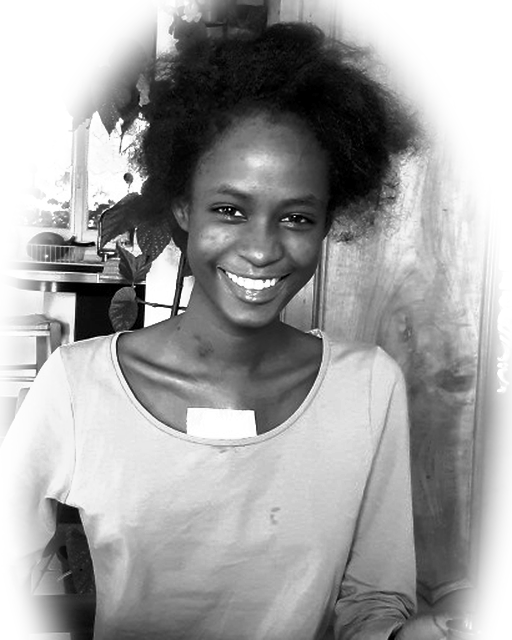
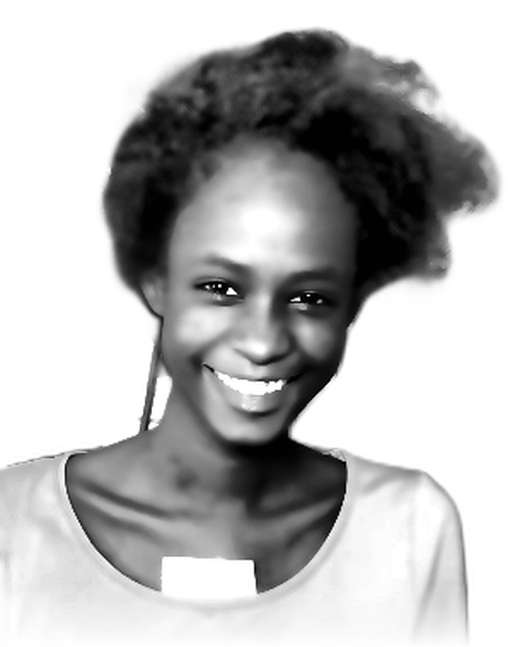
Cockpit : portraits lisibles (détourage, contraste, lettres pleines), mention des vidéos de Violette
- Portraits détourés et contrastés, noms en graisse forte colorés par l'image, léger fond tonal pour lire le visage de loin
- « Pendant les courses, ton nom peut apparaître dans les vidéos de Violette » : accueil, choix mât/cockpit, contreparties, fiche après le don

Claude-Session: https://claude.ai/code/session_01Njsx87tTTW4BVFtWPGQtJ3

diff --git a/app.js b/app.js
@@ -532,7 +532,7 @@ const ckHeadPx = () => ckCanvas.height * CK.head / CK.h, ckRowPx = () => (ckCanv
    corps, graisse et couleur variant avec l'image ; au centre, les emplacements réservés aux logos (Mécénat Chirurgie Cardiaque, partenaires) */
 let ckDeco = 'portraits', typoHits = [], typoHome = new Map();
 const ckTypoOn = () => ckDeco === 'portraits' && !(pickMode && DS.zone === 'ck');
-const TYPO_KIDS = [{ num: 553, pal: ['#2e0207', '#c20f1b', '#f7c9cc'], bg: '#e9e1de' }, { num: 556, pal: ['#060f24', '#1d4b9e', '#bcd0f2'], bg: '#e1e5ec' }];
+const TYPO_KIDS = [{ num: 556, pal: ['#1c0003', '#c10f1c', '#fbe3e4'], bg: '#f1ece9' }, { num: 557, pal: ['#03091a', '#1b4aa0', '#e2eaf8'], bg: '#ebeef3' }];
 TYPO_KIDS.forEach(k => { k.img = new Image(); k.img.onload = () => { try { drawCk(); } catch (e) {} }; k.img.src = `enfants/typo/${k.num}.png`; });
 Promise.all([300, 500, 800].map(w => new FontFace('Barlow Condensed', `url(fonts/barlow-condensed-latin-${w}-normal.woff2)`, { weight: String(w) }).load().then(f => document.fonts.add(f)).catch(() => {})))
   .then(() => { try { drawCk(); } catch (e) {} });
@@ -545,8 +545,8 @@ function drawCkHead(ctx, W, hp) {
 }
 function typoPortrait(ctx, kid, X, Y, w, h, names, start, k) {
   w = Math.floor(w); h = Math.floor(h);
-  const img = kid.img, ok = img && img.complete && img.naturalWidth, fs = Math.max(13.5 * k, 10), lh = fs * 1.02, q = 4;
-  let fit = null; if (ok) { const sc = Math.min(w * 1.08 / img.naturalWidth, h * 0.97 / img.naturalHeight); fit = { w: img.naturalWidth * sc, h: img.naturalHeight * sc }; fit.x = (w - fit.w) / 2; fit.y = h - fit.h; }
+  const img = kid.img, ok = img && img.complete && img.naturalWidth, fs = Math.max(11 * k, 9), lh = fs * 0.96, q = 3;
+  let fit = null; if (ok) { const sc = Math.min(w * 1.0 / img.naturalWidth, h * 0.99 / img.naturalHeight); fit = { w: img.naturalWidth * sc, h: img.naturalHeight * sc }; fit.x = (w - fit.w) / 2; fit.y = h - fit.h; }
   // l'image, réduite, sert à lire la densité sous chaque nom
   const S = document.createElement('canvas'); S.width = Math.ceil(w / q); S.height = Math.ceil(h / q); const sx = S.getContext('2d', { willReadFrequently: true });
   if (fit) sx.drawImage(img, fit.x / q, fit.y / q, fit.w / q, fit.h / q);
@@ -561,9 +561,9 @@ function typoPortrait(ctx, kid, X, Y, w, h, names, start, k) {
       const i = names[n % names.length]; n++; const o = D[i], txt = o.p + ' ' + o.n;
       t.font = `500 ${fs}px ${STICK_FONT}`; const w0 = t.measureText(txt).width; let sum = 0, cnt = 0;
       for (let j = 0; j <= 4; j++) { const d = dark(x + w0 * j / 4, y - fs * 0.35); if (d >= 0) { sum += d; cnt++; } }
-      const d = cnt >= 3 ? sum / cnt : -1, wt = d < 0.25 ? 300 : d < 0.45 ? 500 : d < 0.62 ? 700 : 800, size = fs * (d < 0 ? 0.9 : 0.94 + 0.16 * d);
+      const d = cnt >= 3 ? sum / cnt : -1, wt = d < 0 ? 300 : d < 0.3 ? 600 : 800, size = fs * (d < 0 ? 0.9 : 1);
       t.font = `${wt} ${size}px ${STICK_FONT}`; const ww = t.measureText(txt).width; t.fillText(txt, x, y);
-      if (d >= 0.62) { t.lineWidth = size * 0.07; t.strokeStyle = '#000'; t.strokeText(txt, x, y); }
+      if (d >= 0) { t.lineWidth = size * (0.03 + 0.05 * d); t.strokeStyle = '#000'; t.strokeText(txt, x, y); }
       const x0 = Math.max(0, x), x1 = Math.min(w, x + ww);
       if (x1 - x0 > ww * 0.6 && y < h) typoHits.push({ x0: X + x0, y0: Y + y - size * 0.82, x1: X + x1, y1: Y + y + size * 0.22, i, d, full: x0 === x && x1 === x + ww });
       x += ww; t.font = `300 ${fs}px ${STICK_FONT}`; t.fillText('  ·  ', x, y); x += t.measureText('  ·  ').width;
@@ -576,13 +576,14 @@ function typoPortrait(ctx, kid, X, Y, w, h, names, start, k) {
     const P = document.createElement('canvas'); P.width = Math.ceil(fit.w / 2); P.height = Math.ceil(fit.h / 2); const pc = P.getContext('2d', { willReadFrequently: true });
     pc.drawImage(img, 0, 0, P.width, P.height); const im = pc.getImageData(0, 0, P.width, P.height), a = im.data, [c0, c1, c2] = kid.pal.map(hex3), bg = hex3(kid.bg);
     for (let i = 0; i < a.length; i += 4) {
-      const L0 = clamp(((0.2126 * a[i] + 0.7152 * a[i + 1] + 0.0722 * a[i + 2]) / 255 - 0.1) / 0.72, 0, 1), L = L0 * L0 * (3 - 2 * L0), A = a[i + 3] / 255, lo = L < 0.5, f = lo ? L / 0.5 : (L - 0.5) / 0.5, u = lo ? c0 : c1, v = lo ? c1 : c2;
+      const L0 = clamp((0.2126 * a[i] + 0.7152 * a[i + 1] + 0.0722 * a[i + 2]) / 255, 0, 1), L = L0 * L0 * (3 - 2 * L0), A = a[i + 3] / 255, lo = L < 0.5, f = lo ? L / 0.5 : (L - 0.5) / 0.5, u = lo ? c0 : c1, v = lo ? c1 : c2;
       for (let j = 0; j < 3; j++) a[i + j] = (u[j] + (v[j] - u[j]) * f) * A + bg[j] * (1 - A);
       a[i + 3] = 255;
     }
     pc.putImageData(im, 0, 0); c.imageSmoothingQuality = 'high'; c.drawImage(P, fit.x, fit.y, fit.w, fit.h);
   }
   t.globalCompositeOperation = 'source-in'; t.drawImage(C, 0, 0); t.globalCompositeOperation = 'source-over';
+  if (fit) { ctx.save(); ctx.globalAlpha = 0.38; ctx.drawImage(C, fit.x, fit.y, fit.w, fit.h, X + fit.x, Y + fit.y, fit.w, fit.h); ctx.restore(); }
   ctx.drawImage(T, X, Y);
   // légende
   const e = ENF.enfants.find(x => x.num === kid.num); if (!e) return;
@@ -1728,9 +1729,9 @@ function bindRef(box, o) { const b = box.querySelector('[data-a=refcopy]'); if (
 function chainText(o) {
   if (o.perso >= 0) return '';
   const k = o.e >= 0 ? ENF.enfants[o.e] : null; let a;
-  if (isCk(o)) { const n = ckOwner.filter(i => i >= 0 && i !== o.i).length; a = `Ton nom est dans le cockpit, avec ${plural(n, 'autre nom', 'autres noms')} sous les yeux de Violette.`; }
+  if (isCk(o)) { const n = ckOwner.filter(i => i >= 0 && i !== o.i).length; a = `Ton nom est dans le cockpit, avec ${plural(n, 'autre nom', 'autres noms')} sous les yeux de Violette. Pendant les courses, il pourra apparaître dans ses vidéos tournées à bord.`; }
   else { const { row } = dec(o.slot); let n = 0; for (const ff of [0, 1]) for (let c = 0; c < NC; c++) { const w = owner[enc(ff, row, c)]; if (w >= 0 && w !== o.i) n++; }
-    a = `Ton nom est au rang ${row} du mât, ${n ? `avec ${plural(n, 'autre nom', 'autres noms')} à la même hauteur` : 'seul à cette hauteur pour l\'instant'}.`; }
+    a = `Ton nom est au rang ${row} du mât, ${n ? `avec ${plural(n, 'autre nom', 'autres noms')} à la même hauteur` : 'seul à cette hauteur pour l\'instant'}. Pendant les courses, il pourra apparaître dans les vidéos de Violette.`; }
   const de = k ? (VOY.test(k.prenom) ? "d'" : 'de ') : '';
   const b = k ? ` Ton don rejoint ${k.donateurs > 1 ? `ceux de ${plural(k.donateurs - 1, 'autre donateur', 'autres donateurs')}` : 'les premiers dons'} pour l'opération ${de}<strong>${esc(k.prenom)}, ${ageTxt(k)}</strong>.` : '';
   const c = NKIDS_DONE ? ` Ensemble, les noms du bateau ont déjà financé <strong>${plural(NKIDS_DONE, 'enfant', 'enfants')}</strong>.` : '';
@@ -2011,8 +2012,8 @@ function gotoStep(n) {
 document.querySelectorAll('[data-next]').forEach(b => b.onclick = () => gotoStep(DS.step + 1));
 const PCK = () => CFG.prix_cockpit || 30;
 function renderZone() {
-  $('zone').innerHTML = `<button type="button" data-z="mat" class="${DS.zone === 'mat' ? 'on' : ''}"><b>Sur le mât</b><span>dès ${CFG.prix_auto} € · ${nf(freeCount())} places</span></button>
-    <button type="button" data-z="ck" class="${DS.zone === 'ck' ? 'on' : ''}"><b>Dans le cockpit</b><span>dès ${PCK()} € · sous les yeux de Violette · ${nf(ckOwner.filter(i => i < 0).length)} places</span></button>`;
+  $('zone').innerHTML = `<button type="button" data-z="mat" class="${DS.zone === 'mat' ? 'on' : ''}"><b>Sur le mât</b><span>dès ${CFG.prix_auto} € · ${nf(freeCount())} places · peut-être dans les vidéos de Violette</span></button>
+    <button type="button" data-z="ck" class="${DS.zone === 'ck' ? 'on' : ''}"><b>Dans le cockpit</b><span>dès ${PCK()} € · sous les yeux de Violette, souvent dans ses vidéos du bord · ${nf(ckOwner.filter(i => i < 0).length)} places</span></button>`;
   $('zone').querySelectorAll('button').forEach(b => b.onclick = () => { DS.zone = b.dataset.z; if (DS.zone === 'ck' && DS.amt < PCK()) DS.amt = PCK(); DS.slot = -1; DS.ck = -1; ckSel = -1; renderAmounts(); });
 }
 function renderAmounts() {

diff --git a/style.css b/style.css
@@ -368,7 +368,7 @@ input[type=file] { height: auto; padding: 10px; }
 .tirage b { display: block; font: 900 19px/1.1 var(--display); text-transform: uppercase; letter-spacing: .03em; }
 .tirage span { display: block; font-size: 15px; color: var(--ecume); margin: 2px 0 4px; }
 .lk { background: none; border: 0; padding: 0; color: var(--ciel); text-decoration: underline; cursor: pointer; font-size: 14px; }
-.how { list-style: none; margin: 0; padding: 0; display: grid; grid-template-columns: repeat(3, 1fr); gap: 8px; counter-reset: how; }
+.how { list-style: none; margin: 0; padding: 0; display: grid; grid-template-columns: repeat(2, 1fr); gap: 8px; counter-reset: how; }
 .how li { counter-increment: how; display: grid; gap: 2px; padding: 10px 12px; border-radius: 12px; border: 1px solid rgba(159,179,201,.22); }
 .how li::before { content: counter(how); font: 900 26px/1 var(--display); color: var(--coeur); }
 .how b { font: 800 17px/1.1 var(--display); text-transform: uppercase; letter-spacing: .03em; }

diff --git a/index.html b/index.html
@@ -67,6 +67,7 @@
         <li><b>Je donne</b><span>dès 10 €, en ligne, avec reçu fiscal</span></li>
         <li><b>Mon nom embarque</b><span>sur le mât ou dans le cockpit, à la place que je choisis</span></li>
         <li><b>Je suis l'enfant que j'aide</b><span>sa fiche, son voyage, son opération</span></li>
+        <li><b>Je le vois en course</b><span>pendant les courses, mon nom peut apparaître dans les vidéos de Violette</span></li>
       </ol>
     </div>
 
